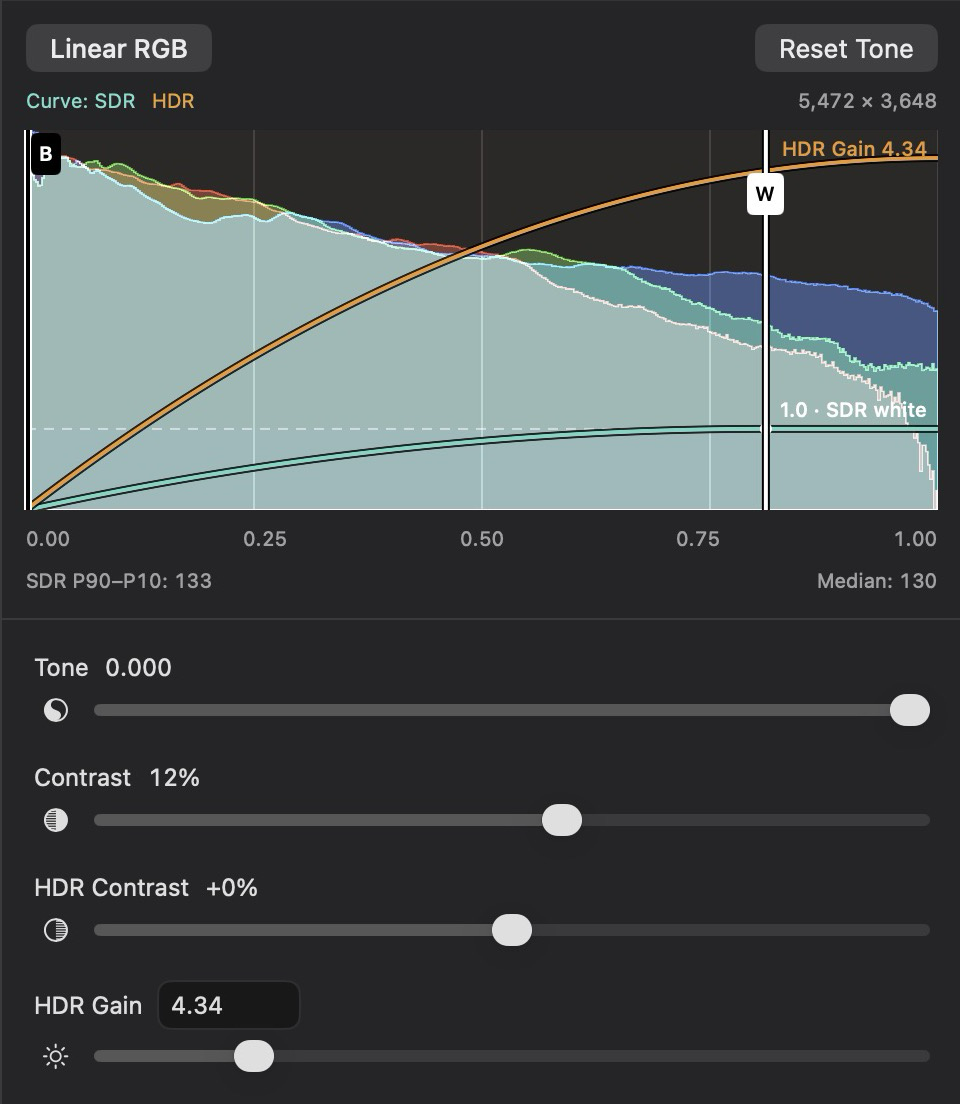
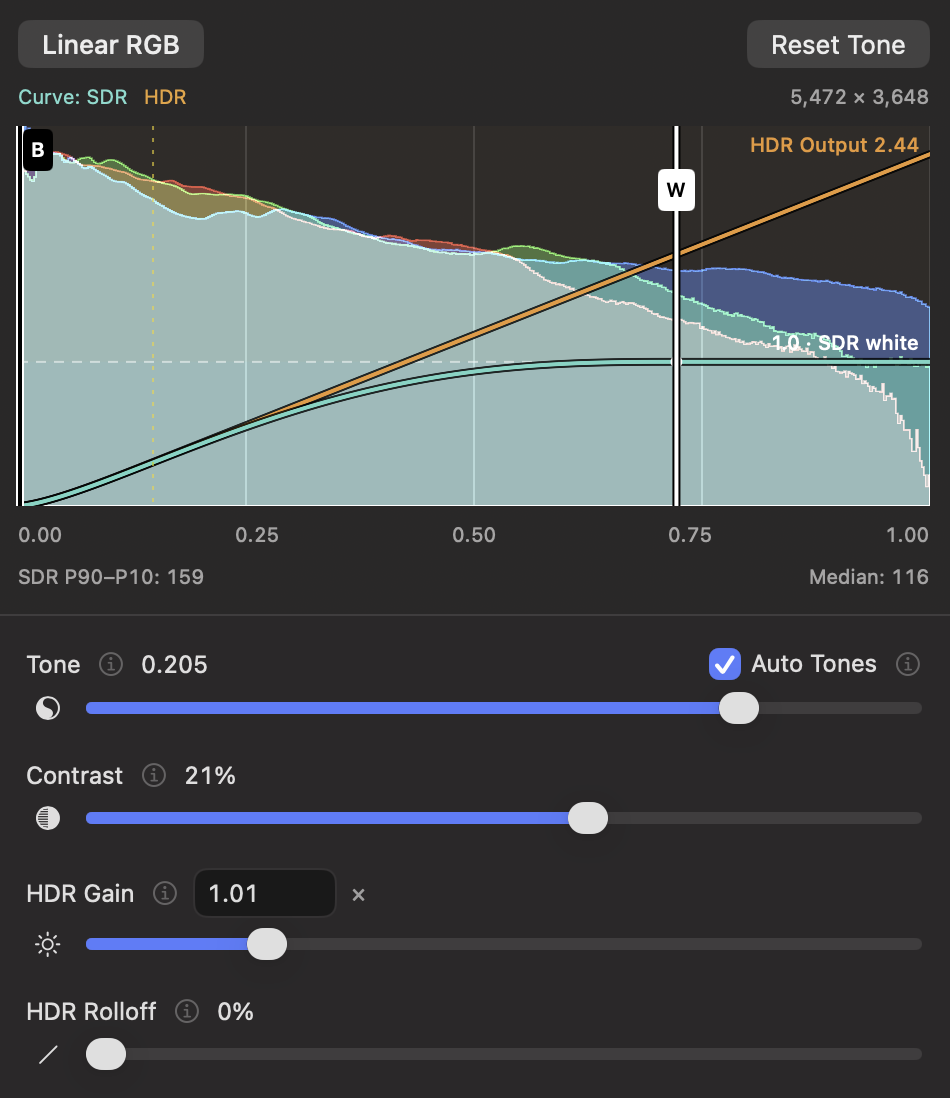
Document tangent-based HDR development and updated tone controls

diff --git a/README.md b/README.md
@@ -23,11 +23,11 @@ An original 2736 × 1824 JPEG export with an embedded ISO 21496-1 HDR gain map. 
 ## Features
 
 - **RAW, SDR, and HDR image development**, with paired SDR/HDR previews and JPEG, HEIF, and TIFF export.
-- **Batch export on macOS**, using each image's saved settings, concurrent processing with a memory budget, and automatic filename-conflict handling.
+- **Batch export on macOS**, using saved settings or automatic development for unedited files, concurrent processing with a memory budget, and automatic filename-conflict handling.
 - **Portable XMP sidecar settings**, leaving original images untouched. Unsaved recipes stay in a pending-edits list when switching images. Save commits them to sidecars; folder changes and normal close/quit ask before discarding pending work.
-- **Copy and paste settings**, with separate choices for Tone, White Balance, Color, HLS, and Effects.
-- **Folder-based file browser** with thumbnails and outlines identifying images with saved edits.
-- **White balance**, including averaged circular sampling and RAW-aware white-balance copying.
+- **Copy and paste settings**, with separate choices for Tone, White Balance, Color, HLS, Effects, and RAW controls.
+- **Folder-based file browser** with thumbnails, RAW/All filtering, Command/Shift selection, and outlines identifying images with saved edits.
+- **White balance**, including averaged circular sampling, RGB gains, and RAW temperature/tint controls. Convert to WB transfers RGB adjustments into the RAW decoder where possible, preserving residual gains when its limits are reached.
 - **Split toning**, saturation-versus-saturation and luminance-versus-saturation controls.
 - **HSL color adjustments and black-and-white conversion** with an adjustable color-sensitivity curve, designed for physically plausible tonal relationships and smooth near-white transitions.
 - **Clarity** for local contrast, using a large-radius high-pass layer blended with Soft Light. Similar in purpose to Lightroom's Clarity, but a different implementation; negative strength softens contrast.
@@ -61,29 +61,40 @@ Instead of asking you to balance separate Exposure, Shadows, Highlights, Whites,
 | White point | Chooses which input level reaches SDR white. |
 | Tone | Moves the region where the curve allocates contrast, relative to the black and SDR white points. |
 | Contrast | Controls how concentrated that allocation is; negative values provide a complementary curve shape for reducing contrast. |
-| HDR Contrast | Offsets the HDR curve's contrast relative to SDR. |
-| HDR Gain | Sets the HDR output ceiling relative to SDR white, or disables HDR. |
+| HDR Gain | Multiplies the entire HDR rendition, or disables HDR. |
+| HDR Rolloff | Gradually flattens the HDR highlight extension, lowering its endpoint. |
 
-The curves are constructed by integrating a nonnegative slope profile and normalizing its total area. Positive Contrast uses a beta-shaped profile; negative Contrast uses its broad, nonnegative complement. This creates a fixed **contrast budget**: allocating more slope to one tonal region necessarily leaves less elsewhere. The controls reshape a single continuous, monotonic mapping instead of stacking independently adjusted tonal regions. Within each RGB channel, a brighter input cannot become a darker output through this tone curve, although clipping can make different inputs equal.
+The SDR curve is constructed by integrating a nonnegative slope profile and normalizing its total area. Positive Contrast uses a beta-shaped profile; negative Contrast uses its broad, nonnegative complement. This creates a fixed **contrast budget**: allocating more slope to one tonal region necessarily leaves less elsewhere. The controls reshape a single continuous, monotonic mapping instead of stacking independently adjusted tonal regions. Within each RGB channel, a brighter input cannot become a darker output through this tone curve, although clipping can make different inputs equal.
 
 This is a useful constraint for natural photographic rendering. It makes the tradeoff between shadow, midtone, and highlight separation explicit and reduces the number of interacting controls needed to find a balanced result.
 
 ### SDR and HDR share an input reference
 
-Both renditions start from the same linear RGB image and black point. Their endpoints differ:
+Both renditions start from the same linear RGB image and black point. The SDR curve maps the interval between black and white into output 0–1, clipping above the selected white point. **The HDR extension grows out of that SDR curve at Tone**, using its brightness and local slope as the starting reference.
 
-- **SDR:** maps the interval from the black point to the selected white point into output 0–1, clipping above that white point.
-- **HDR:** maps the interval from the black point to input 1.0 into output 0–HDR Gain, independently of the SDR white endpoint.
+With HDR Rolloff at zero and HDR Gain at 1.00, the HDR curve follows SDR up to Tone, then continues along its tangent toward input 1.0. There is no independent HDR Contrast control to balance: changing Tone, Contrast, or the white point updates the hidden **HDR Target** from that tangent. The target is limited to 1–20, so the tangent relationship is exact before that limit intervenes. An automatically calculated target below 2 turns HDR off.
 
-Tone refers to the same input position in both curves, rather than moving to a different part of the photograph when HDR is selected. HDR Contrast allows the extended rendition to redistribute contrast while retaining that shared reference. The preview switches between these two developed images.
+HDR Gain is a separate multiplier, not the endpoint: the default 1.01× gives a small lift to the whole HDR rendition; the slider runs from Off to 1.01–5×, and the value field also accepts 1.00. **HDR Output** on the graph shows the resulting endpoint after gain and rolloff.
 
-For example, an SDR white point can make a room look properly exposed while bright window detail reaches white. The HDR curve can retain separation in those brighter source values and display it above SDR white. This uses detail already in the source; it cannot recover detail clipped during capture or beyond the implemented HDR input endpoint.
+Rolloff bends the highlight extension downward smoothly. At zero it is straight; at maximum it finishes with zero slope. It retains the starting slope of the unrolled extension while reducing its final brightness. Before the Gain multiplier, the extension is:
+
+```text
+t = input position selected by Tone
+u = (input - t) / (1 - t)
+HDR(input) = SDR(t) + (HDR Target - SDR(t)) × (u - Rolloff × u² / 2)
+```
+
+This applies above Tone; below Tone the base curve follows SDR. If Tone reaches input 1.0, there is no remaining interval to extend. Gain then multiplies the complete HDR curve.
+
+For example, the SDR white point can expose a room naturally while bright window detail reaches white. The HDR continuation retains separation in brighter source values and displays it above SDR white, using detail already present in the source. It cannot recover detail clipped during capture or beyond the implemented input endpoint.
+
+**Auto Tones** helps place the selected shade: when you release Tone, it adjusts the white point toward an SDR level of 120–140/255 using the smallest necessary change. A grey preview overlay identifies the affected input range while dragging. Start with skin tones or another shade you want to prioritize, adjust Contrast, and compare the SDR and HDR previews. Fresh SDR imports start with HDR off and neutral contrast.
 
 ### Reading the two curves
 
-<img src="docs/images/tone-histogram.png" alt="Dark Melon histogram and tone controls: cyan SDR curve reaches output one at the white point near input 0.81; orange HDR curve continues to input one and output gain 4.34." width="640">
+<img src="docs/images/tone-histogram.png" alt="Updated Dark Melon tone controls: cyan SDR curve levels off at the white point near 0.725; orange HDR extension reaches output 2.44 with Gain 1.01 and Rolloff zero." width="640">
 
-*Captured from the running app. The cyan SDR curve reaches output 1.0 at the W marker (about input 0.81) and stays flat beyond it. The orange HDR curve continues to input 1.0, reaching an output ceiling of 4.34. Both start at the same black point.*
+*Tone is 0.205 of the black-to-white interval and Contrast is 21%. The cyan SDR curve reaches output 1.0 at W (about input 0.725); the orange HDR extension continues to input 1.0. HDR Gain is only 1.01×, while the resulting HDR Output is 2.44—the multiplier and final brightness are different quantities.*
 
 The horizontal axis is linear source RGB intensity. The colored histogram fills show pixel counts on a **logarithmic** vertical scale; the overlaid curves use a separate **linear output** scale, reduced to fit HDR headroom. The dashed “1.0 · SDR white” line marks reference white on that curve scale. A curve crossing a histogram trace has no special meaning—the two heights represent different quantities.
 
@@ -93,7 +104,7 @@ An SDR-base gain-map file contains a conventional SDR image plus information for
 
 Dark Melon develops both images first, then derives the gain map from their relationship. In simplified form, the stored quantity is `log2((HDR + epsilon) / (SDR + epsilon))`, calculated per RGB channel or from luminance for a monochrome map. The small offset handles values near black. The map therefore describes where the HDR rendition differs from the SDR base, rather than applying one global brightness multiplier. Compatible viewers can adapt that enhancement to available display headroom. See Apple's [overview of adaptive HDR and gain maps](https://developer.apple.com/videos/play/wwdc2024/10177/).
 
-The intended result is a convincing SDR photograph with an HDR extension that adds selective highlight detail and brightness. The mathematical structure supports that goal, but does not enforce it: aggressive settings can also brighten midtones substantially. The app warns when the HDR tone curve falls below the SDR curve; it does not automatically prevent crossings.
+The intended result is a convincing SDR photograph with an HDR extension that adds selective highlight detail and brightness. The mathematical structure supports that goal, but does not enforce it: aggressive settings can also brighten midtones substantially. The app warns when the HDR tone curve falls below the SDR curve; it does not automatically prevent crossings. Rolloff can cause such a crossing; a small increase in HDR Gain can resolve it. Direct PQ HEIF export is also available without a gain map.
 
 ### Why this approach instead of a traditional multi-slider workflow?
 

diff --git a/DevelopmentSettings.md b/DevelopmentSettings.md
@@ -16,8 +16,7 @@ Untouched automatic import adjustments do not count as user edits. SDR imports
 without a saved recipe start with HDR Gain off.
 
 The queue is memory-only: force quit, crashes, and OS process termination cannot
-be intercepted to show a confirmation. RAW decoder controls remain excluded from
-persistent recipes as described below.
+be intercepted to show a confirmation.
 
 Move/copy the sidecar with the source; rename both matching prefixes together.
 No absolute source path is stored. Including the original extension avoids
@@ -30,10 +29,12 @@ The XMP property `darkmelon:Recipe`, namespace
 - `version`: schema/processing recipe version, currently 1
 - `colorSpace`: sRGB, Display P3, or Rec.2020
 - `mapping`: ToneMapping's stored values (tone, white balance, monochrome,
-  color, HLS and effects)
+  color, HLS and effects), including RGB gains and RAW temperature/tint
+- `rawSettings`: optional RAW decoder adjustments, including exposure, shadow bias,
+  noise reduction and supported corrections
 
-RAW decoder controls, preview mode, zoom, compare state, export options, and
-histogram UI are excluded. The recipe applies to the original source, not to
+Preview mode, zoom, compare state, export options, and histogram UI are excluded.
+Older recipes without RAW settings use decoder defaults. The recipe applies to the original source, not to
 an already rendered export. Other applications can carry/read the XMP, but
 cannot reproduce Dark Melon's processing without implementing these controls.
 
@@ -45,8 +46,8 @@ defaults. Failure to read a recipe doesn't prevent opening the image.
 
 Sandbox access to the containing directory is needed to create/read sidecars.
 The folder browser grants that access. Opening an individual file alone may not
-grant access to its siblings; if Save Edits reports permission denied, open its
-folder in the browser. Read-only locations cannot save recipes.
+grant access to its siblings; the app offers a containing-folder access prompt
+and remembers granted access. You can also open its folder in the browser. Read-only locations cannot save recipes.
 
 Tests: work/DevelopmentRecipeCheck.swift and work/RecipeStoreCheck.swift in the
 Codex task workspace cover round trips, validation, missing fields, metadata
